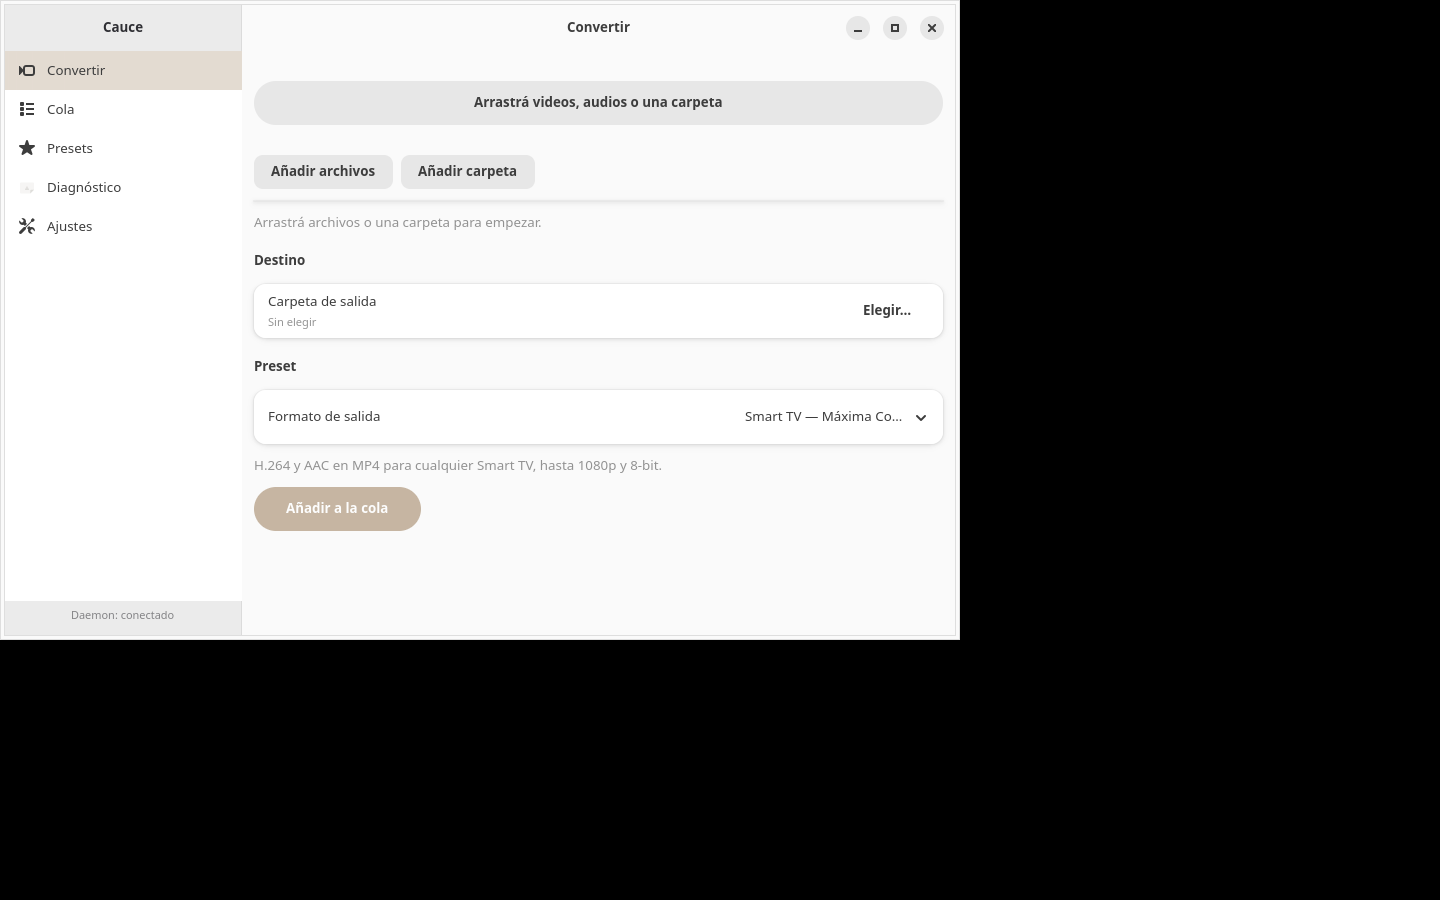
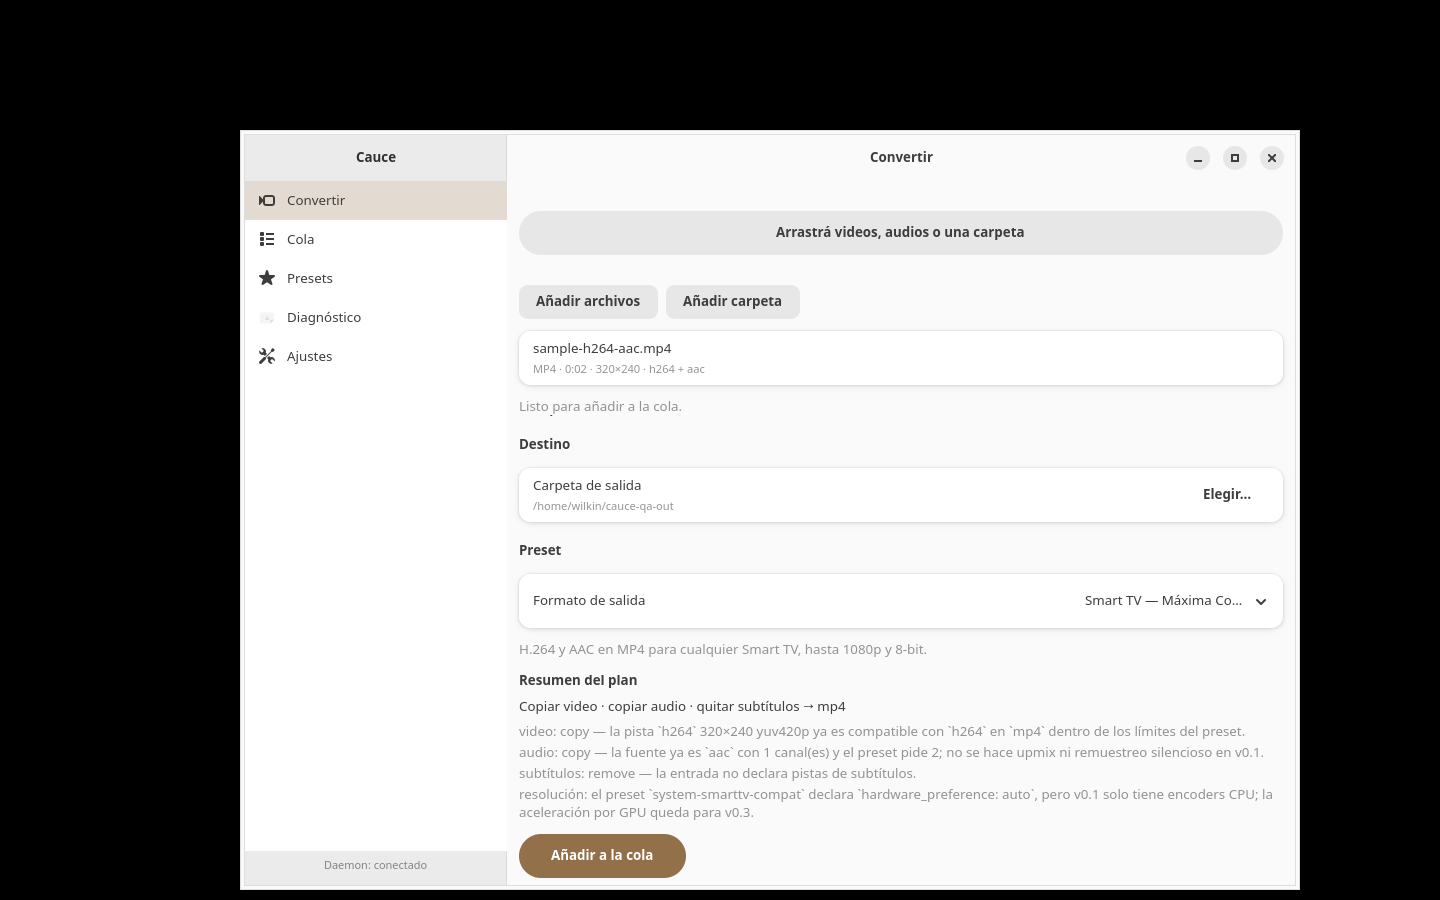
docs(qa): add the verified screenshots and the visual defects

diff --git a/odd/tasks/cauce-0.1.md b/odd/tasks/cauce-0.1.md
@@ -633,3 +633,15 @@ Copiados de `architecture.md` §19 y `ui-mvp.md` §170-179; se marcan solo con e
 - Arreglo identificado, no ejecutado por presupuesto de contexto: calcular el desplazamiento con `xdotool getwindowgeometry --shell` (o `xwininfo -id $WID | grep Absolute`) y aplicar ese offset a todas las coordenadas, más verificar tras cada clic con `jobs.list`/captura que la sección cambió antes de continuar.
 - Se descartaron las cuatro capturas nuevas: no eran evidencia de Cola, Presets ni Ajustes. `odd/screenshots/` conserva solo `01-convertir.png`, que sigue siendo válida.
 - La conversión iniciada desde la UI **sigue sin ejecutarse**.
+
+**L43 (QA visual completa) — capturas verificadas y defectos reales:**
+- Offset medido con `xwininfo`: cliente en (240,130) 1060×760, frame de openbox idéntico ⇒ **offset (0,0)**; el fallo anterior era que `xdotool search` devolvía una ventana 1×1 no mapeada. Ahora `--onlyvisible` y verificación por diferencia de frames (`cmp -s`) tras cada clic: Cola, Presets, Ajustes y Diagnóstico cambiaron al primer intento.
+- **Conversión iniciada desde la UI**: `jobs.list` confirma 1 trabajo en `completed` (96 %), salida en `~/cauce-qa-out`. El primer clic tras cada pausa se perdía por un frame invisible de openbox; detectado con `XQueryPointer` y reintentado.
+- Capturas en `odd/screenshots/`: `01-convertir`, `02-cola`, `03-presets`, `04-ajustes`, `05-diagnostico` (1440×900, sha256 verificado contra el host).
+- **Defectos observados** (sin corregir todavía, son de esta pasada):
+  - Convertir: preset truncado ("Smart TV — Máxima Co…"); "Añadir archivos/carpeta" sin jerarquía frente a la CTA; **la CTA "Añadir a la cola" cae bajo el pliegue a 960×640** sin scrollbar visible; texto secundario de bajo contraste; el resumen repite la descripción del preset.
+  - Cola: etiqueta "Completada" con barra al 96 %; "Pausar cola"/"Abrir carpeta" sin aspecto de botón; `✕` sin etiqueta accesible junto a las acciones; artefacto suelto junto al título.
+  - Presets: "Nombre" duplica el título del panel; la fila seleccionada rompe en dos líneas y desalinea la lista; columnas cortadas sin indicador de scroll; valores en gris claro.
+  - Ajustes: "Carpeta de salida" vacía aunque Convertir ya la fijó; ancho de tarjetas distinto al resto; el icono solapa el texto a 960 px.
+  - Diagnóstico: "Actualizar"/"Copiar informe" con baseline inconsistente; artefacto suelto entre tarjetas; icono casi invisible.
+- La ventana se capturó a 1060×760 porque a 960×640 la CTA quedaba oculta; **el tamaño por defecto hay que revisarlo**.
